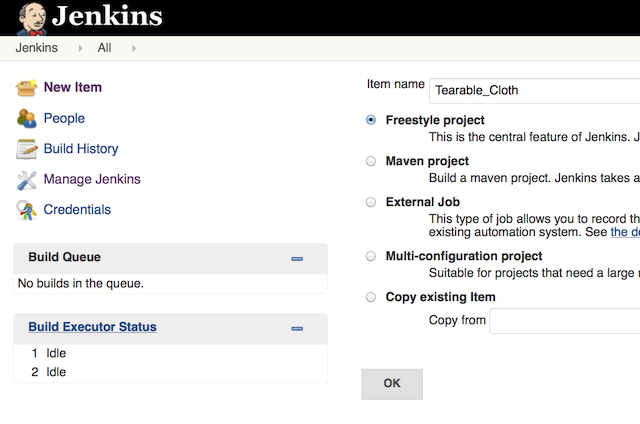
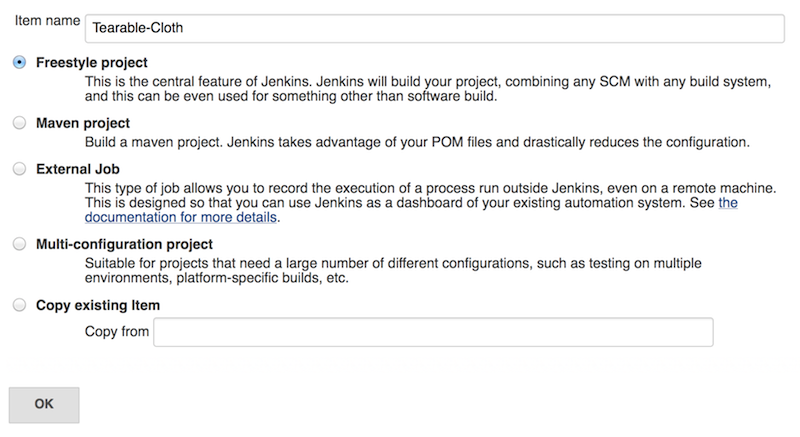
updates

diff --git a/website/labs/jenkins.html b/website/labs/jenkins.html
@@ -29,7 +29,7 @@ body { background: #fff; font-family: arial;  }
     </style>
     <div class="container"> <img
         src="../../static/img/VMWorld_Banner.png">
-      <h2>Jenkins Lab (DevOps Track) </h2>
+      <h2>Jenkins Lab </h2>
       <p><br>
       </p>
       <div class="col-lg-8">
@@ -97,20 +97,21 @@ C:&gt; git clone https://github.com/Dissimulate/Tearable-Cloth.git
           <li> Enter the following commands in the terminal window to
             create a post-commit hook. <br>
             With this command in place, Git will call Jenkins whenever
-            code changes are comitted to the repository.</li>
+            code changes are comitted to the repository.</li><br>
+            Note: Don't add any extra " " around the echo commands or the post commit will not work.
         </ol>
         <br>
         <br>
         <h5>OSX</h5>
         <pre class="pre-scrollable">$ cd Tearable-Cloth
-$ echo '#!/bin/sh' &gt; .git/hooks/post-commit
-$ echo "curl -X POST http://localhost:8080/job/Tearable_Cloth/build?delay=5sec" &gt;&gt; .git/hooks/post-commit
-
+$ echo #!/bin/sh &gt; .git/hooks/post-commit
+$ echo curl -X POST http://localhost:8080/job/Tearable-Cloth/build?delay=5sec &gt;&gt; .git/hooks/post-commit
+$ chmod +x .git/hooks/post-commit
 </pre>
         <h5>Windows</h5>
         <pre class="pre-scrollable">$ cd Tearable-Cloth
-$ echo '#!/bin/sh' &gt; .git\hooks\post-commit
-$ echo "curl -X POST http://localhost:8080/job/Tearable_Cloth/build?delay=5sec" &gt;&gt; .git\hooks\post-commit
+c:\> echo #!/bin/sh &gt; .git\hooks\post-commit
+c:\> echo curl -X POST http://localhost:8080/job/Tearable-Cloth/build?delay=5sec &gt;&gt; .git\hooks\post-commit
 </pre>
         <br>
         <br>
@@ -126,7 +127,7 @@ $ echo "curl -X POST http://localhost:8080/job/Tearable_Cloth/build?delay=5sec" 
           <li> Click on the '<b>Available</b>' tab in the center of the
             page </li>
           <li> Scroll down and select the '<b>Git Plugin</b>' in the
-            list as shown below </li>
+            list as shown below.<br> Note: you can use the 'Filter' in the upper right corner. </li>
           <br>
           <img style="border:1px solid black"
             src="../../static/img/jenkins_git_plugin.png"> <br>
@@ -150,25 +151,31 @@ $ echo "curl -X POST http://localhost:8080/job/Tearable_Cloth/build?delay=5sec" 
         </h3>
         <br>
         <ol type="a">
-          <li> In Jenkins console click on the '<b>Manage Jenkins</b>'
+          <li> In Jenkins console click on the '<b>Jenkin Logo</b>'
+             in the upper left corner. </li>
+          <li> Then click on the '<b>Manage Jenkins</b>'
             link in the upper left corner. </li>
           <li> Click on the <b>Configure System</b>' link in the middle
             of the page.</li>
           <li> Scroll down to the <b>SCP repository hosts</b> section.
             (Shown below)</li>
-          <li> In the <b>Hostname</b> field enter the server name <b>http://labs.vcair.us</b>
+          <li> Click the 'Add' button. </b>
+          <li> In the <b>Hostname</b> field enter the server name <b>labs.vcair.us</b>
           </li>
           <li> In the <b>Port</b> field enter the value '<b>22</b>'</li>
+          <li> Enter a single period  <b>.</b> in the 'Repository Root Path</li>
           <li> In the <b>User Name</b> field enter your student
             username provided by the instructor.</li>
           <li> In the <b>Password/Passphrase</b> field enter your
             student password provided by the instructor.</li>
+          <li> Click on the Hostname field again to have Jenkins check your password.><br>
+            The Red warning box should go away.</li>
           <li> Click on the <b>Save</b> button on the bottom of the
             page to save the settings.</li>
         </ol>
         <br>
         <img alt="click the save button" style="border:1px solid black"
-          src="../../static/img/jenkins_scp_site.png" height="256"
+          src="../../static/img/jenkins_scp_site.png" height="301"
           width="800"> <br>
         <br>
         <h3>Step 5: &nbsp; Create a new Jenkins Project to do the build
@@ -177,15 +184,15 @@ $ echo "curl -X POST http://localhost:8080/job/Tearable_Cloth/build?delay=5sec" 
         <ol type="a">
           <li> In Jenkins click on the '<b>New Item</b>' link in the
             upper left corner. </li>
-          <li> Enter the value "<b>Tearable_Cloth</b>" in the '<b>Item
+          <li> Enter the value "<b>Tearable-Cloth</b>" in the '<b>Item
               name</b>' field</li>
           <li> Check the '<b>Freestyle project</b>' radio button</li>
           <li> Click the <b>OK</b> Button</li>
           <br>
           <br>
           <img alt="Click the ok button" style="border:1px solid black"
-            src="../../static/img/jenkins_new_project.png" height="424"
-            width="640"> <br>
+            src="../../static/img/jenkins_new_project.png" height="437"
+            width="800"> <br><br>
           <li> Scroll down to the '<b>Source Code Management</b>'
             Section (shown below) </li>
           <li> Check the '<b>Git</b>' radio button </li>
@@ -215,32 +222,33 @@ $ echo "curl -X POST http://localhost:8080/job/Tearable_Cloth/build?delay=5sec" 
         <img alt="Publish to scp repository" style="border:1px solid
           black"
           src="../../static/img/jenkins_publish_artifact_menu.png"
-          <br>
           height="240" width="316"> <br><br>
         <li> In the <b>Publish artifacts to SCP Repository</b> section,<br>
           click on the <b>SCP site</b> dropdown box select the remote
           site from the <b>SCP site</b> dropdown</li>
+           <li> Click the Add button beside 'Files to Upload'<b>**</b>'</li>
         <li> Enter two asterisks in the Source input field '<b>**</b>'</li>
-        <li> Enter <b>your student name provided by the instructor </b>
+        <li> Enter a period <b>.</b>
           in the '<b>Destination</b>' field</li>
         <li> Click the '<b>Save</b>' button at the bottom of the page to
           save your project</li>
         </ol>
         <br>
         <img alt="Click Save" style="border:1px solid black"
-            src="../../static/img/jenkins_scp_step.png" height="467"
-            border="0" width="640">  <br>
+            src="../../static/img/jenkins_scp_step.png" height="301"
+            border="0" width="800">  <br>
         <br>
         <br>
         <br>
         <h3>Step 6: &nbsp; Modify the code and commit the change</h3>
         <br>
         <ol type="a">
+          <li> Return to the console window you opened earlier.>/li>
           <li> Use your favorite text editor to edit the style.css
-            source code file. <br>
+            source code file in the Tearable-Cloth folder. <br>
             Change the value for the background color for the main page
             by changing the <b>background: </b> value <br>
-            from #F2F2F2; to #A2A2A2; as shown below. Then save the
+            from #F2F2F2; to #A2A2A2; as shown below. <br>Then save the
             contents of the file.<br>
             <br>
             body {<br>
@@ -248,16 +256,17 @@ $ echo "curl -X POST http://localhost:8080/job/Tearable_Cloth/build?delay=5sec" 
             }<br>
             <br>
           </li>
+          <li>In the command window type the 'git add' and 'git commit' commands as shown below.
         </ol>
         <h5>OSX</h5>
         <pre class="pre-scrollable">$ nano  style.css
-$ git add style.html
+$ git add style.css
 $ git commit -m "new change"
 
 </pre>
         <h5>Windows</h5>
         <pre class="pre-scrollable">$ notepad style.css
-$ git add style.html
+$ git add style.css
 $ git commit -m "new change"
 
 </pre>
@@ -266,8 +275,9 @@ $ git commit -m "new change"
           code</h3>
         <br>
         <ol type="a">
-          <li> Open your browser and return to the Jenkins project
+          <li> Return to the Jenkins project window in your browser.
             window.<br>
+            Click on the ENABLE_AUTO_REFRESH button in the upper right corner.<br>
             Within a few seconds you should see a new job execution
             start.</li>
           <li> Click on the '<b>Console Output</b> link on the left to
